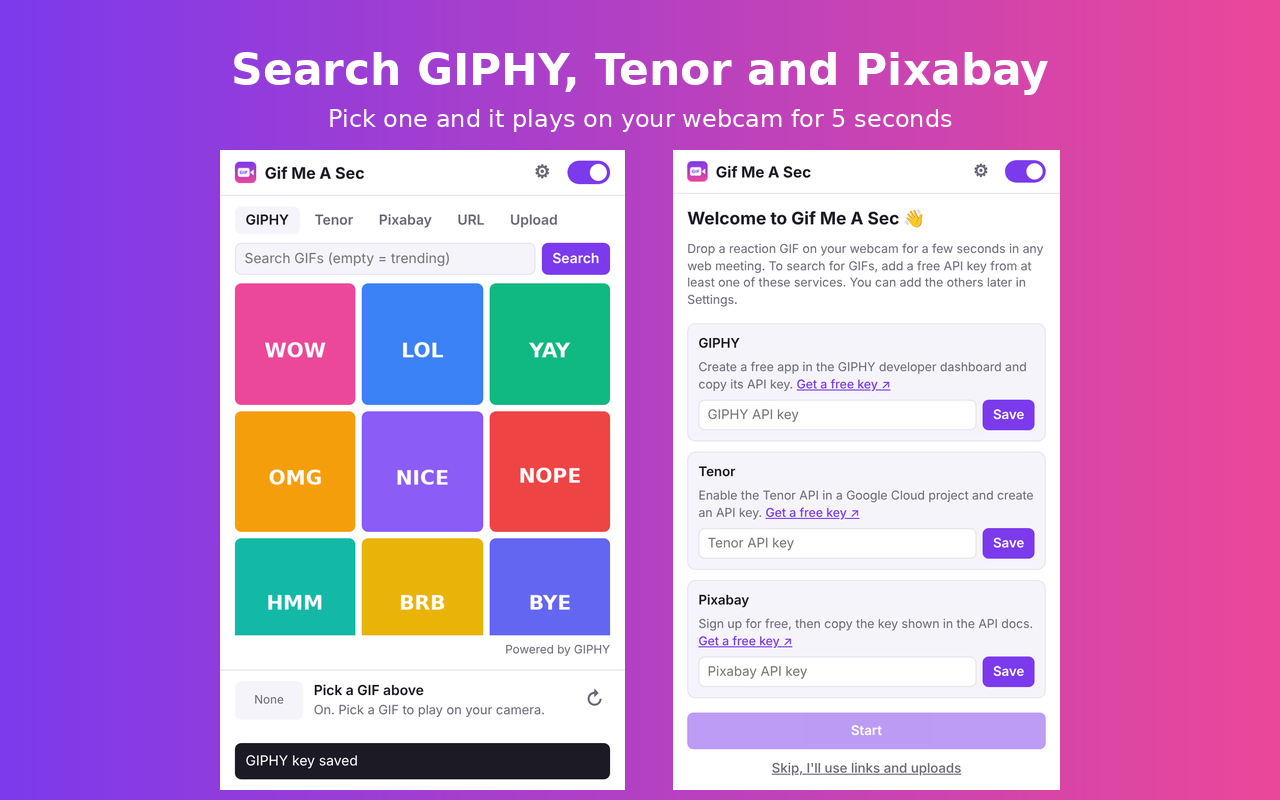
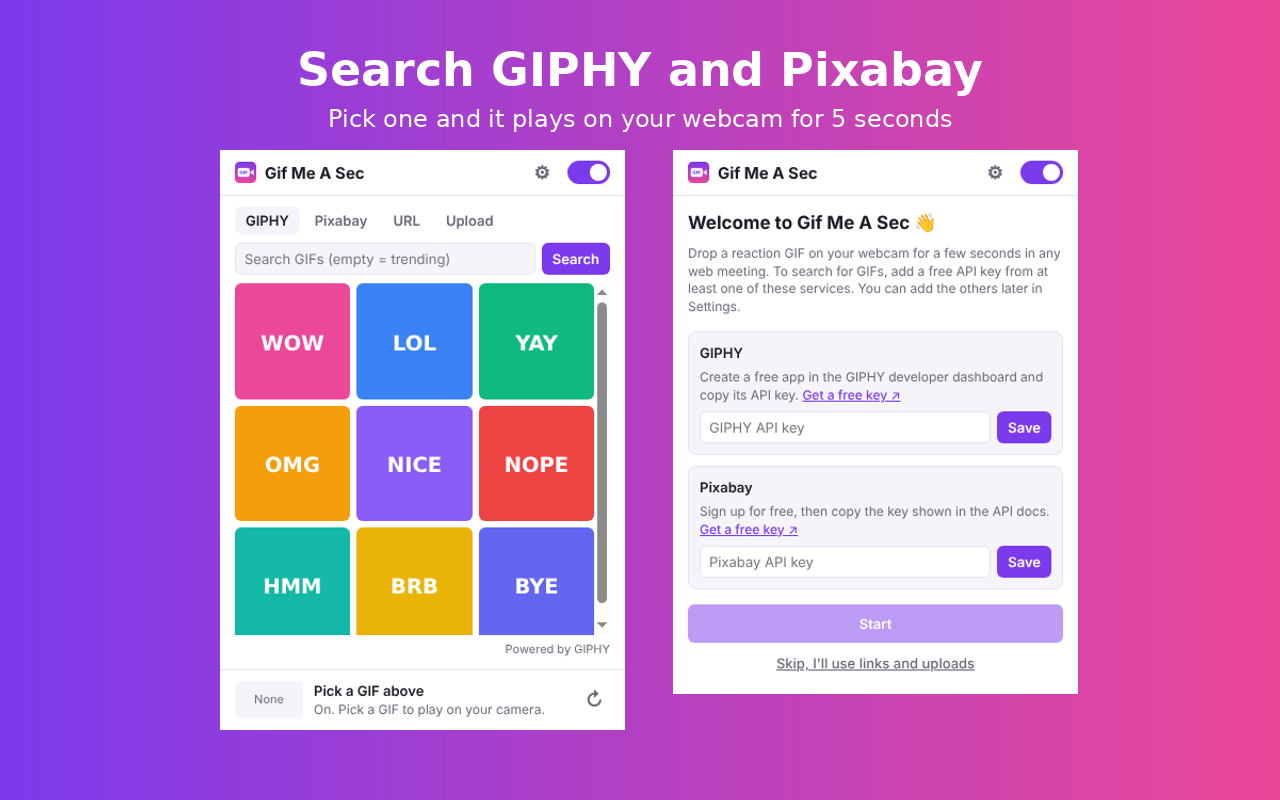
Remove Tenor (it no longer issues API keys); bump to 1.0.2
Saved Tenor keys are cleared on update, and a saved Tenor tab falls back to GIPHY.

Claude-Session: https://claude.ai/code/session_01U3mJVL57Gwy2na8qdn1R3K

diff --git a/popup/providers.js b/popup/providers.js
@@ -32,38 +32,6 @@ export const PROVIDERS = {
       };
     },
   },
-  tenor: {
-    name: "Tenor",
-    keyName: "tenorKey",
-    keyUrl: "https://developers.google.com/tenor/guides/quickstart",
-    keyHelp: "Enable the Tenor API in a Google Cloud project and create an API key.",
-    attribution: "Powered by Tenor",
-    async search(query, key, { cursor } = {}) {
-      const endpoint = query ? "search" : "featured";
-      const params = new URLSearchParams({
-        key,
-        client_key: "gifcam",
-        limit: PAGE_SIZE,
-        contentfilter: "medium",
-        media_filter: "gif,mediumgif,tinygif",
-      });
-      if (query) params.set("q", query);
-      if (cursor) params.set("pos", cursor);
-      const res = await fetch(`https://tenor.googleapis.com/v2/${endpoint}?${params}`);
-      if (!res.ok) throw new Error(`Tenor returned ${res.status}`);
-      const body = await res.json();
-      const items = (body.results || []).map((g) => {
-        const m = g.media_formats || {};
-        return {
-          id: g.id,
-          title: g.content_description || "Tenor GIF",
-          thumb: (m.tinygif || m.gif).url,
-          url: (m.mediumgif || m.gif).url,
-        };
-      });
-      return { items, next: items.length && body.next ? body.next : null };
-    },
-  },
 };
 
 // Pixabay asks API users to cache responses for 24 hours.

diff --git a/panel/panel.js b/panel/panel.js
@@ -93,7 +93,7 @@ function search(term) {
   if (!providerId) {
     if (feed) feed.stop();
     grid.replaceChildren(
-      emptyCell("Add a free GIPHY, Tenor or Pixabay API key to search.", {
+      emptyCell("Add a free GIPHY or Pixabay API key to search.", {
         label: "Add a key",
         run: () => chrome.tabs.create({ url: chrome.runtime.getURL("popup/popup.html#welcome") }),
       })
@@ -181,7 +181,7 @@ chrome.storage.onChanged.addListener((changes, area) => {
 
 (async () => {
   state = await chrome.storage.local.get([
-    "giphyKey", "tenorKey", "pixabayKey", "pixabayType", "panelProvider",
+    "giphyKey", "pixabayKey", "pixabayType", "panelProvider",
     "enabled", "mode", "duration", "after",
   ]);
   renderProviders();

diff --git a/popup/popup.js b/popup/popup.js
@@ -11,7 +11,6 @@ const DEFAULTS = {
   background: "blur",
   gif: null,
   giphyKey: "",
-  tenorKey: "",
   pixabayKey: "",
   pixabayType: "video",
   showPanel: true,
@@ -249,6 +248,8 @@ async function useRemoteVideo(url, meta) {
 }
 
 function showTab(tab) {
+  // A saved tab can point to a removed provider (Tenor); fall back to GIPHY.
+  if (!document.querySelector(`.tabs button[data-tab="${tab}"]`)) tab = "giphy";
   state.tab = tab;
   chrome.storage.local.set({ tab });
   document.querySelectorAll(".tabs button").forEach((b) => b.classList.toggle("active", b.dataset.tab === tab));

diff --git a/src/background.js b/src/background.js
@@ -19,4 +19,6 @@ chrome.commands.onCommand.addListener(async (command) => {
 // First install: open the welcome page where people add their API keys.
 chrome.runtime.onInstalled.addListener(({ reason }) => {
   if (reason === "install") chrome.tabs.create({ url: chrome.runtime.getURL("popup/popup.html#welcome") });
+  // Tenor stopped issuing API keys, so it was removed in 1.0.2. Forget any saved Tenor key.
+  if (reason === "update") chrome.storage.local.remove("tenorKey");
 });

diff --git a/popup/popup.html b/popup/popup.html
@@ -32,7 +32,6 @@
   <section class="picker">
     <nav class="tabs">
       <button type="button" data-tab="giphy" class="active">GIPHY</button>
-      <button type="button" data-tab="tenor">Tenor</button>
       <button type="button" data-tab="pixabay">Pixabay</button>
       <button type="button" data-tab="url">URL</button>
       <button type="button" data-tab="upload">Upload</button>

diff --git a/README.md b/README.md
@@ -4,7 +4,7 @@ Reaction GIFs on your webcam. Gif Me A Sec is a Chrome extension that plays a GI
 
 - **Your own camera, with GIFs on top**: there's no extra "virtual camera" to pick. Gif Me A Sec filters your real camera, playing the GIF for a set time (5 seconds by default) and then going straight back to you. You can also make it freeze on the last frame or keep looping, or show a still frame instead.
 - **On by default, instant on/off**: turning it off or on applies right away in an ongoing call, with no camera restart or reload.
-- **Pick GIFs** from GIPHY, Tenor or Pixabay (videos and images) with your own free API keys, a direct link, or an uploaded file (GIF, WebP, PNG, JPEG). Pixabay videos are converted to a 10-second, 10 fps clip in the popup.
+- **Pick GIFs** from GIPHY or Pixabay (videos and images) with your own free API keys, a direct link, or an uploaded file (GIF, WebP, PNG, JPEG). Pixabay videos are converted to a 10-second, 10 fps clip in the popup.
 - **Quick panel in meetings**: while your camera is on, a small GIF button sits in the corner of the meeting page. It opens reaction shortcuts (wow, lol, applause, bye…), a search box and a scrollable 3-column grid. One click plays that GIF, then hands back to your camera.
 - **Simple popup**: the popup is just search and pick. Play time, what happens after, fit and API keys live under Settings (the gear).
 - **Private**: no accounts, no tracking, no servers. See [PRIVACY.md](PRIVACY.md).
@@ -18,7 +18,7 @@ Reaction GIFs on your webcam. Gif Me A Sec is a Chrome extension that plays a GI
 
 ## Use
 
-1. On install, a welcome page asks for a free API key from GIPHY, Tenor or Pixabay (links to get one are right there). Any provider tab without a key shows the same key box.
+1. On install, a welcome page asks for a free API key from GIPHY or Pixabay (links to get one are right there). Any provider tab without a key shows the same key box.
 2. Reload any meeting tabs that were open before you installed the extension.
 3. Pick a GIF in the popup or in the quick panel in the meeting (search needs an API key, see below; URL and Upload work without one).
 4. The GIF plays on your camera for 5 seconds, then you're back. It only plays when you pick a GIF (or press Replay); turning the extension on or starting your camera never plays one by itself. Search results load 9 at a time as you scroll.
@@ -36,7 +36,6 @@ Keyboard shortcuts (change them at `chrome://extensions/shortcuts`):
 Each user adds their own free keys; the extension ships with none. Keys are saved only in the browser (`chrome.storage.local`) and sent only to their own service.
 
 - **GIPHY**: create an app at [developers.giphy.com](https://developers.giphy.com/dashboard/).
-- **Tenor**: enable the Tenor API in a Google Cloud project and create an API key ([quickstart](https://developers.google.com/tenor/guides/quickstart)).
 - **Pixabay**: sign up at [pixabay.com](https://pixabay.com/api/docs/) and copy the key shown in the API docs. Search results are cached for 24 hours, as Pixabay asks.
 
 ## Build and publish

diff --git a/store/LISTING.md b/store/LISTING.md
@@ -22,7 +22,7 @@ Gif Me A Sec plays a reaction GIF on your webcam for a few seconds during any we
 ★ Quick reactions in the meeting
 A small GIF button sits in the corner of your meeting. Tap it for one-click reactions (wow, lol, applause, thumbs up, bye, brb, mind blown…) or search for anything. Pick one and everyone sees it for 5 seconds.
 
-★ Search GIPHY, Tenor and Pixabay
+★ Search GIPHY and Pixabay
 Add a free API key for any of them (it takes a minute; links are in the extension). You can also paste a GIF link or upload your own GIF or image.
 
 ★ Works where you meet
@@ -36,7 +36,7 @@ No accounts, no tracking, no servers. Your keys, settings and GIFs stay in your 
 
 Keyboard shortcuts: Alt+Shift+Q opens the quick panel, Alt+Shift+G replays the GIF, Alt+Shift+C turns it on or off.
 
-Not affiliated with GIPHY, Tenor or Pixabay.
+Not affiliated with GIPHY or Pixabay.
 
 ## Graphics (in this folder)
 
@@ -54,7 +54,7 @@ Show a short reaction GIF in place of the user's webcam video during web meeting
 
 - *storage / unlimitedStorage*: Saves the user's settings, their own API keys and the picked GIF (or a short clip converted from a video, which can be a few MB) locally so they are ready in the next meeting.
 - *Host permission: all sites (content scripts on `<all_urls>`)*: The extension must run inside whichever meeting site the user uses (Meet, Zoom web, Teams web, Whereby, Discord, others) to filter that page's camera track and show the in-meeting GIF panel. It does nothing on pages that don't use the camera.
-- *Host permissions for api.giphy.com, *.giphy.com, tenor.googleapis.com, *.tenor.com, pixabay.com, cdn.pixabay.com*: To search those services with the user's own API key and download the GIF the user picks.
+- *Host permissions for api.giphy.com, *.giphy.com, pixabay.com, cdn.pixabay.com*: To search those services with the user's own API key and download the GIF the user picks.
 - *Optional host permissions (any site)*: Requested only when the user pastes a GIF link from another site, so the GIF can be downloaded.
 - *Remote code*: No. All code is in the package.
 

diff --git a/PRIVACY.md b/PRIVACY.md
@@ -12,7 +12,7 @@ Nothing. The extension has no accounts, no analytics, no tracking and no servers
 
 The following is saved only in your browser's local extension storage (`chrome.storage.local`) and never leaves your device:
 
-- the API keys you add for GIPHY, Tenor or Pixabay
+- the API keys you add for GIPHY or Pixabay
 - your settings (play time, what happens afterwards, fit and so on)
 - the GIF you last picked, so it is ready for your next meeting
 - recent Pixabay search results, kept for up to 24 hours as Pixabay's API terms require
@@ -25,13 +25,13 @@ Camera video is processed entirely inside the meeting tab on your device. When a
 
 ## Third-party services
 
-When you search, your search words and your own API key for that service are sent directly from your browser to it: [GIPHY](https://support.giphy.com/hc/en-us/articles/360032872931-GIPHY-Privacy-Policy), [Tenor](https://policies.google.com/privacy) or [Pixabay](https://pixabay.com/service/privacy/). Thumbnails and GIFs are downloaded from their servers. Those services handle that data under their own privacy policies. If you paste a link, the GIF is downloaded from that site.
+When you search, your search words and your own API key for that service are sent directly from your browser to it: [GIPHY](https://support.giphy.com/hc/en-us/articles/360032872931-GIPHY-Privacy-Policy) or [Pixabay](https://pixabay.com/service/privacy/). Thumbnails and GIFs are downloaded from their servers. Those services handle that data under their own privacy policies. If you paste a link, the GIF is downloaded from that site.
 
 ## Permissions
 
 - **Access to all sites**: needed so the extension can work on any meeting site (Google Meet, Zoom, Teams, Whereby and others) by filtering the camera inside that page.
 - **Storage / unlimited storage**: to keep your API keys, settings and the picked GIF (or converted video clip) on your device.
-- **GIPHY, Tenor and Pixabay hosts**: to search and download GIFs.
+- **GIPHY and Pixabay hosts**: to search and download GIFs.
 
 ## Contact
 

diff --git a/store/DASHBOARD.md b/store/DASHBOARD.md
@@ -18,7 +18,7 @@ Gif Me A Sec plays a reaction GIF on your webcam for a few seconds during any we
 ★ Quick reactions in the meeting
 A small GIF button sits in the corner of your meeting. Tap it for one-click reactions (wow, lol, applause, thumbs up, bye, brb, mind blown…) or search for anything. Pick one and everyone sees it for 5 seconds.
 
-★ Search GIPHY, Tenor and Pixabay
+★ Search GIPHY and Pixabay
 Add a free API key for any of them (it takes a minute; links are in the extension). You can also paste a GIF link or upload your own GIF or image.
 
 ★ Works where you meet
@@ -32,7 +32,7 @@ No accounts, no tracking, no servers. Your keys, settings and GIFs stay in your 
 
 Keyboard shortcuts: Alt+Shift+Q opens the quick panel, Alt+Shift+G replays the GIF, Alt+Shift+C turns it on or off.
 
-Not affiliated with GIPHY, Tenor or Pixabay.
+Not affiliated with GIPHY or Pixabay.
 ---
 
 **Category:** Communication (if it isn't listed, use "Fun")
@@ -58,7 +58,7 @@ Not affiliated with GIPHY, Tenor or Pixabay.
 
 **Support URL:** https://github.com/ereneld/gif-me-a-sec/issues
 
-**Mature content:** No (leave it unchecked). GIF search uses each service's safe filter: GIPHY rating pg-13, Tenor contentfilter medium, Pixabay safesearch on.
+**Mature content:** No (leave it unchecked). GIF search uses each service's safe filter: GIPHY rating pg-13, Pixabay safesearch on.
 
 **Item support:** turn it on, so users can report problems from the store page.
 

diff --git a/THIRD_PARTY_NOTICES.md b/THIRD_PARTY_NOTICES.md
@@ -6,6 +6,5 @@ The extension does not bundle any third-party libraries. GIFs, images and videos
 
 - **GIPHY**: content is provided by GIPHY under the [GIPHY Terms of Service](https://support.giphy.com/hc/en-us/articles/360020027752-GIPHY-Terms-of-Service). Search results are shown with "Powered by GIPHY" attribution as GIPHY's API terms require.
 - **Pixabay**: content is provided by Pixabay under the [Pixabay Content License](https://pixabay.com/service/license-summary/). Search results show where they come from, as Pixabay's API terms ask.
-- **Tenor**: if enabled, content is provided by Tenor (Google) under the [Tenor API Terms](https://developers.google.com/tenor/terms).
 
-GIPHY, Tenor and Pixabay are trademarks of their respective owners. This project is not affiliated with or endorsed by them.
+GIPHY and Pixabay are trademarks of their respective owners. This project is not affiliated with or endorsed by them.
